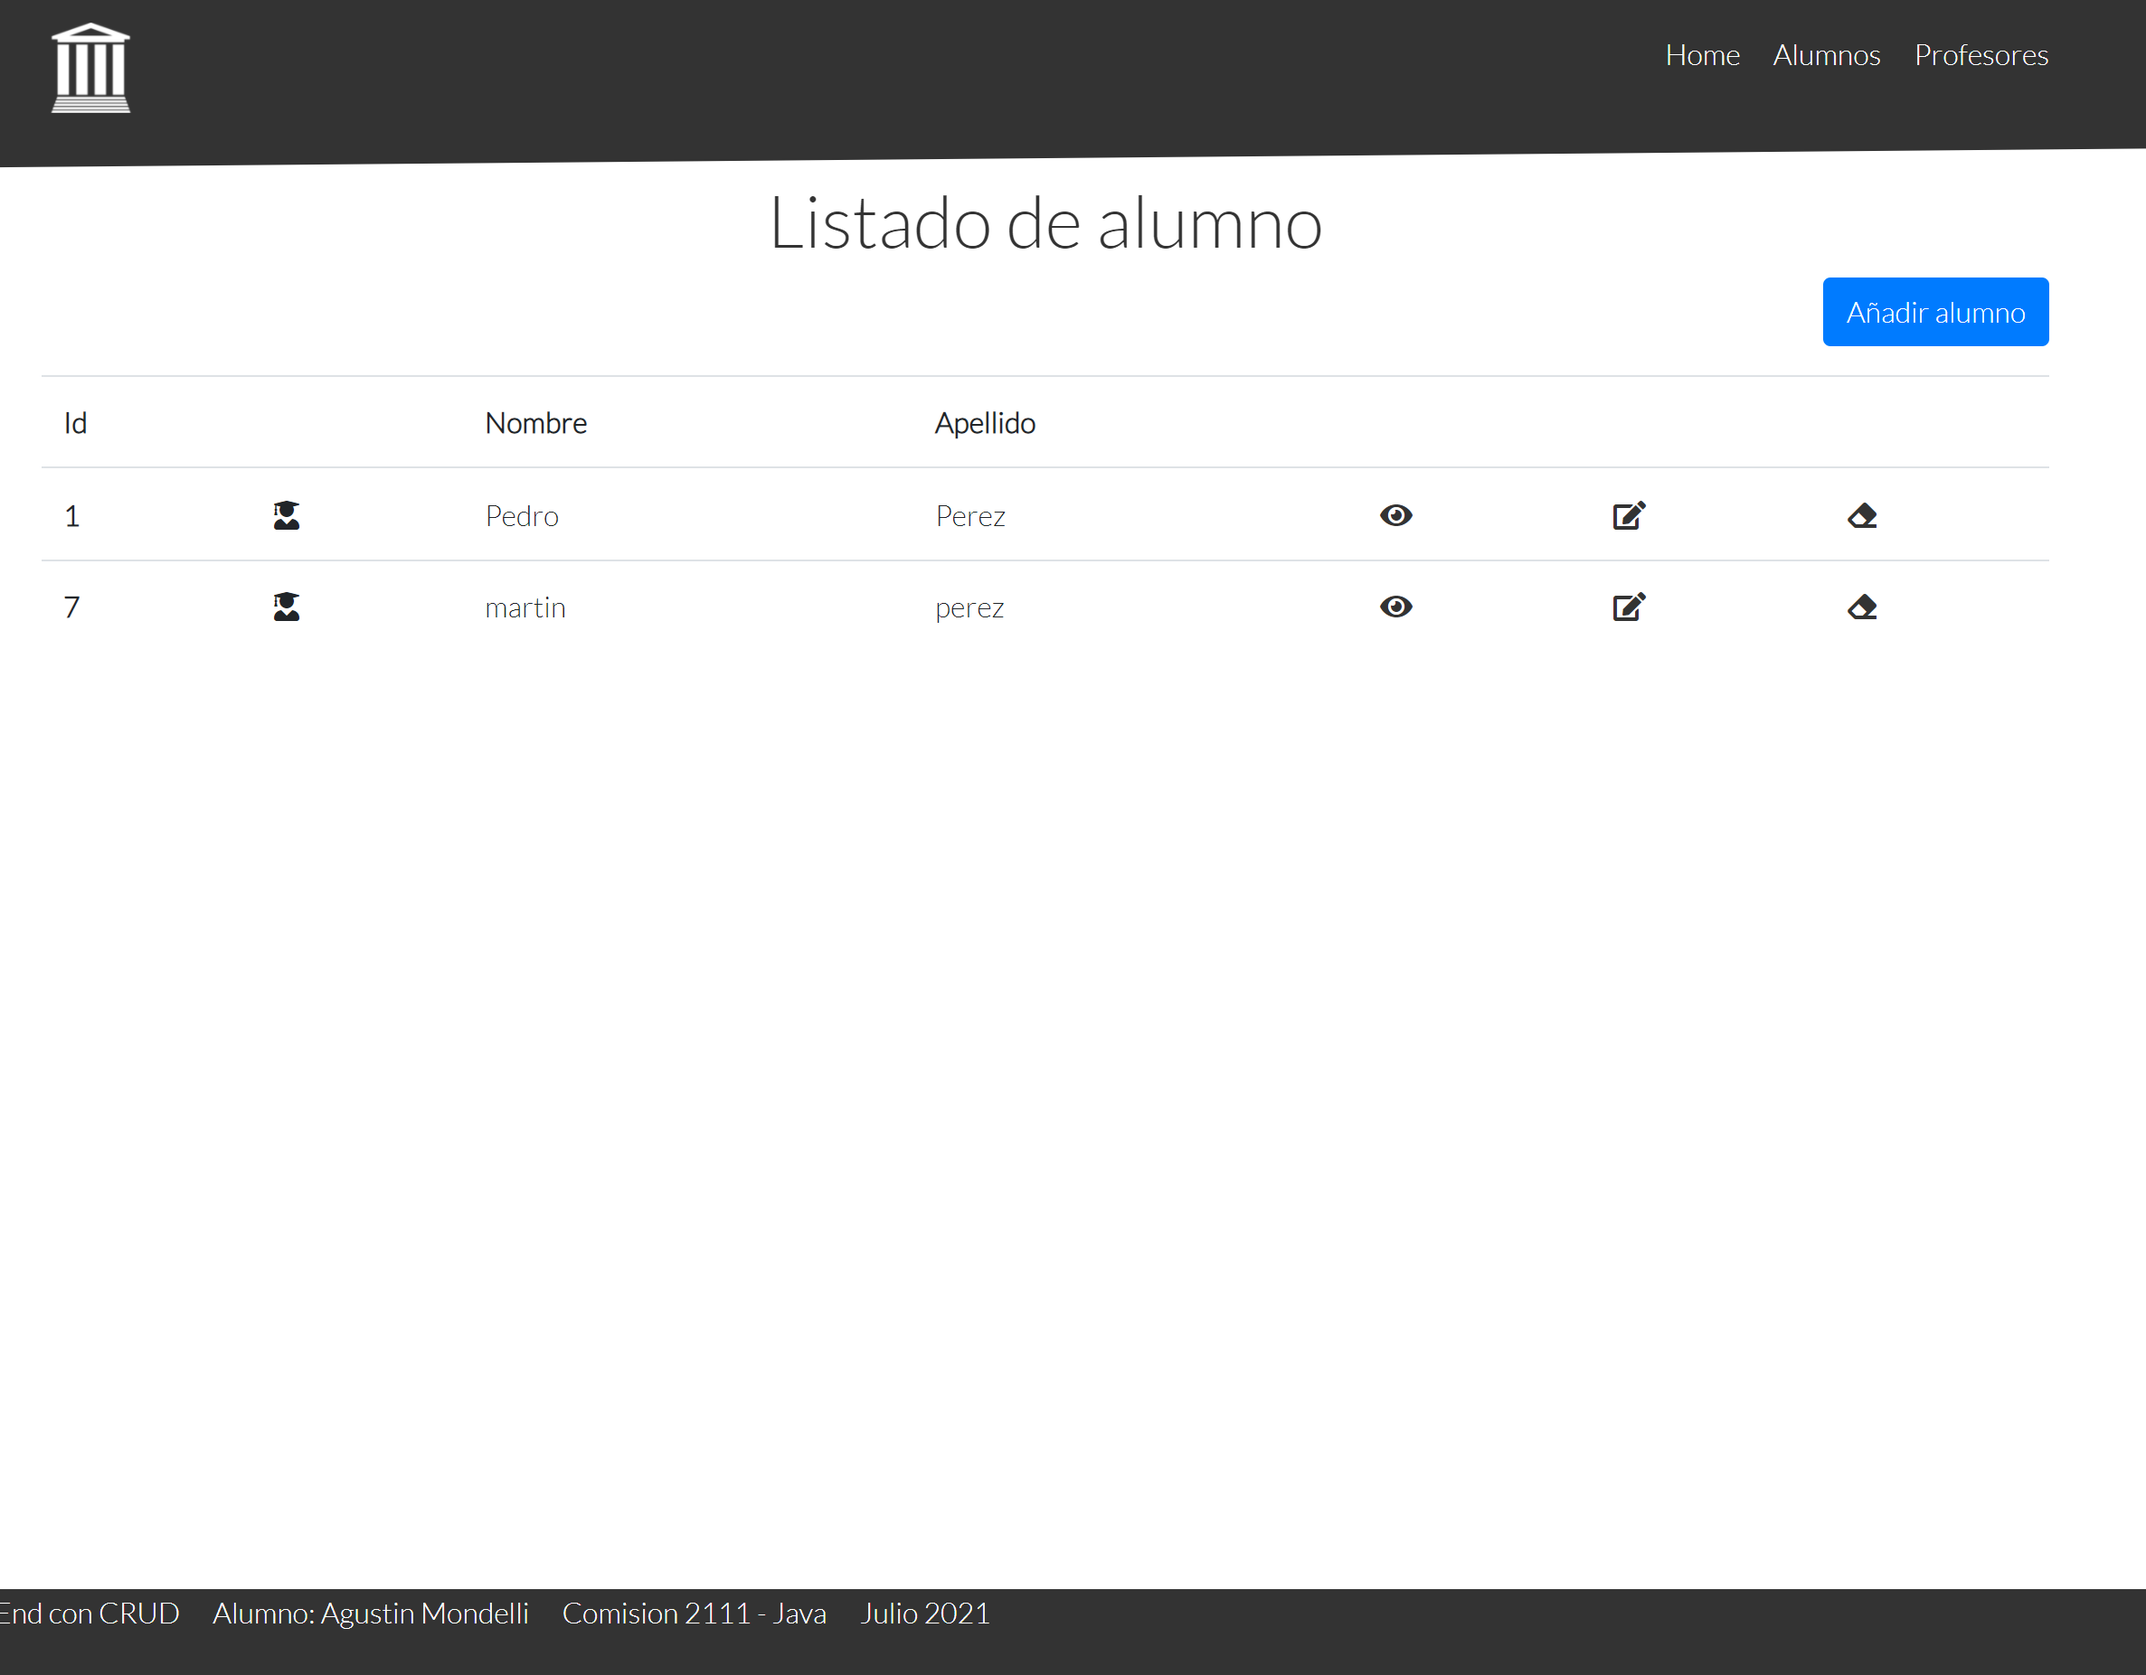
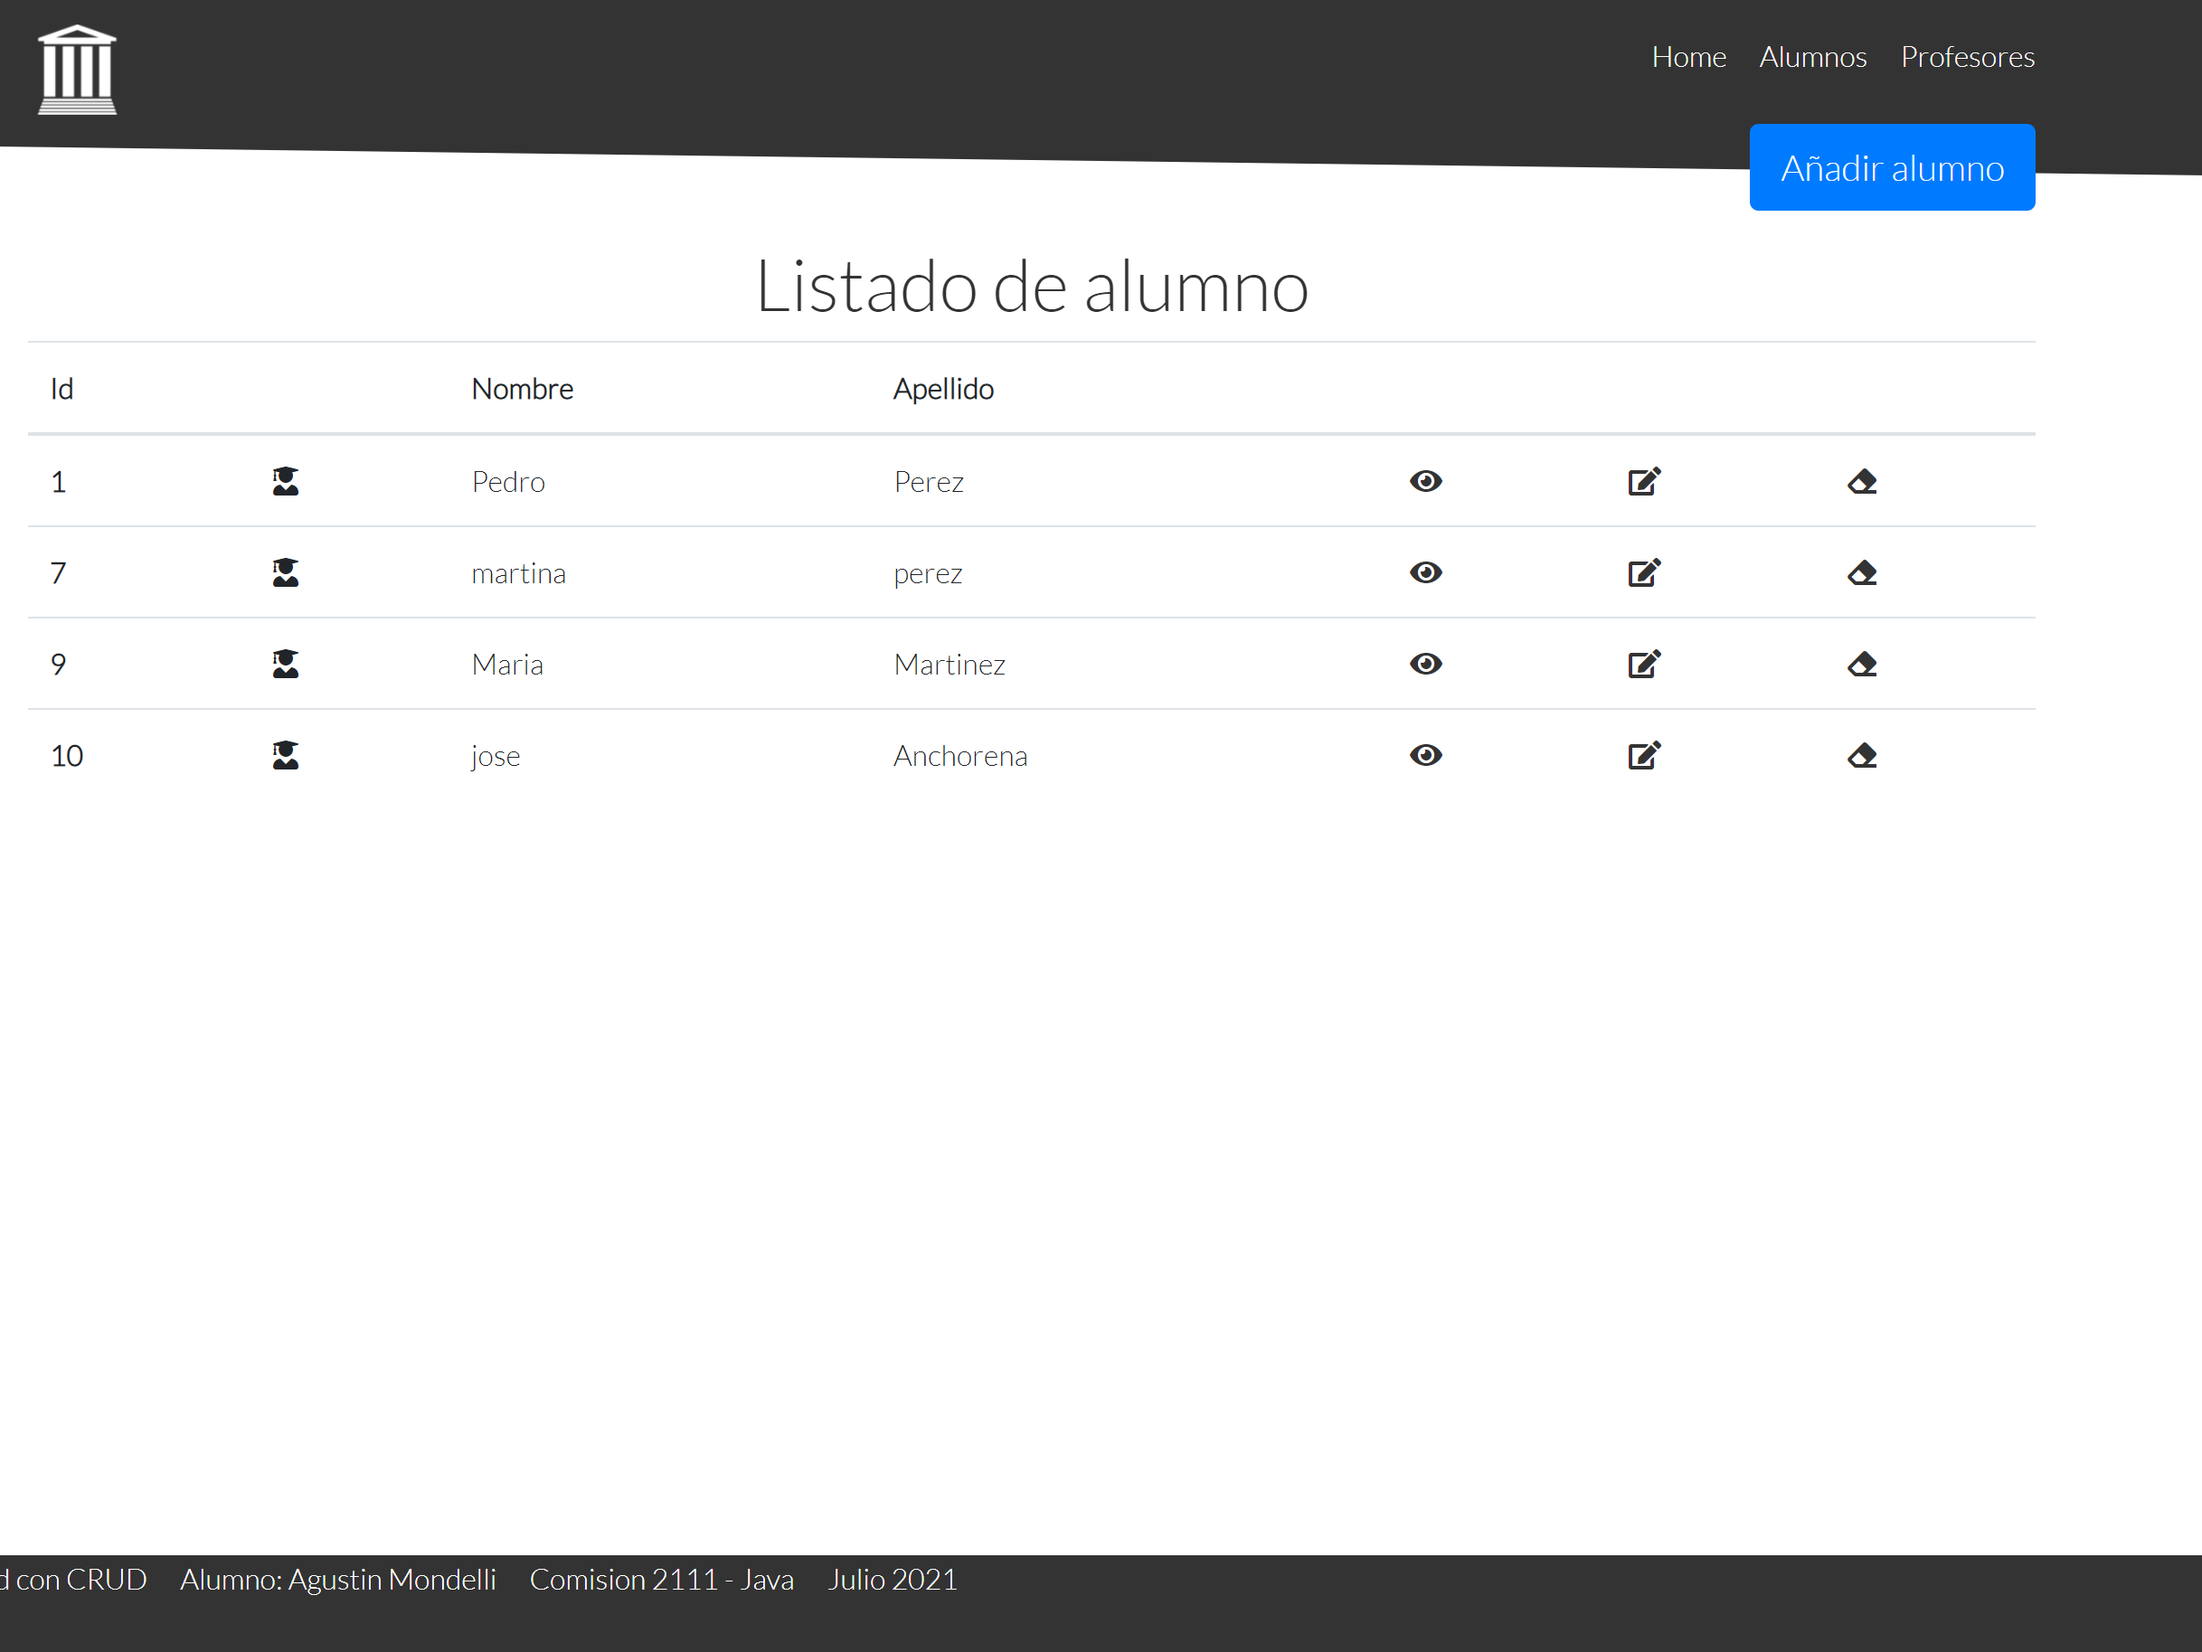
mejoras en el css

diff --git a/src/main/webapp/css/estilos.css b/src/main/webapp/css/estilos.css
@@ -43,17 +43,24 @@ a {
 a:hover{
     color:#fff;
 }
+a:visited{
+    color:#fff;
+}
+
 table{
     width:90%;
 }
 
-table a{
+table a,
+table a:hover,
+table a:visited{
     color: var(--grisoscuro);
 }
 
 h1{
     text-align: center;
-    margin-top: 20px;
+    margin-top: 60px;
+    clear:both;
 }
 #menubar{
     position:relative;
@@ -62,10 +69,7 @@ h1{
     background-color: var(--grisoscuro);
     width:100%;
     color: #ffffff;
-}
-
-#logo{
-    height:50px;
+    z-index: 1;
 }
 
 .inclinado{
@@ -74,10 +78,23 @@ h1{
     bottom: 30px;
     z-index: -1;
     background-color: var(--grisoscuro);
-    transform: skewY(-0.5deg);
-    -webkit-transform: skewY(-0.5deg);
-    -moz-transform: skewY(-0.5deg);
-    -ms-transform: skewY(-0.5deg);
+    transform: skewY(0.75deg);
+    -webkit-transform: skewY(0.75deg);
+    -moz-transform: skewY(0.75deg);
+    -ms-transform: skewY(0.75deg);
+}
+
+.mt-negativo{
+    margin-top: -10px;
+}
+
+.layer-alto{
+    position: relative;
+    z-index: 2;
+}
+
+#logo{
+    height:50px;
 }
 
 .flex{

diff --git a/target/proyectoFinal-1.0-SNAPSHOT/css/estilos.css b/target/proyectoFinal-1.0-SNAPSHOT/css/estilos.css
@@ -43,17 +43,24 @@ a {
 a:hover{
     color:#fff;
 }
+a:visited{
+    color:#fff;
+}
+
 table{
     width:90%;
 }
 
-table a{
+table a,
+table a:hover,
+table a:visited{
     color: var(--grisoscuro);
 }
 
 h1{
     text-align: center;
-    margin-top: 20px;
+    margin-top: 60px;
+    clear:both;
 }
 #menubar{
     position:relative;
@@ -62,10 +69,7 @@ h1{
     background-color: var(--grisoscuro);
     width:100%;
     color: #ffffff;
-}
-
-#logo{
-    height:50px;
+    z-index: 1;
 }
 
 .inclinado{
@@ -74,10 +78,23 @@ h1{
     bottom: 30px;
     z-index: -1;
     background-color: var(--grisoscuro);
-    transform: skewY(-0.5deg);
-    -webkit-transform: skewY(-0.5deg);
-    -moz-transform: skewY(-0.5deg);
-    -ms-transform: skewY(-0.5deg);
+    transform: skewY(0.75deg);
+    -webkit-transform: skewY(0.75deg);
+    -moz-transform: skewY(0.75deg);
+    -ms-transform: skewY(0.75deg);
+}
+
+.mt-negativo{
+    margin-top: -10px;
+}
+
+.layer-alto{
+    position: relative;
+    z-index: 2;
+}
+
+#logo{
+    height:50px;
 }
 
 .flex{

diff --git a/README.md b/README.md
@@ -1,2 +1,5 @@
-# codoacooFinal
-Proyecto final codo a codo Java
+# codoacodoFinal
+Proyecto final codo a codo Java.
+Carpeta Screenshots: tiene un par de imagenes de muestra de la web
+Carpeta mysql: Base de datos para importar en formato mysql
+Carpetas restantes: codigo Java
